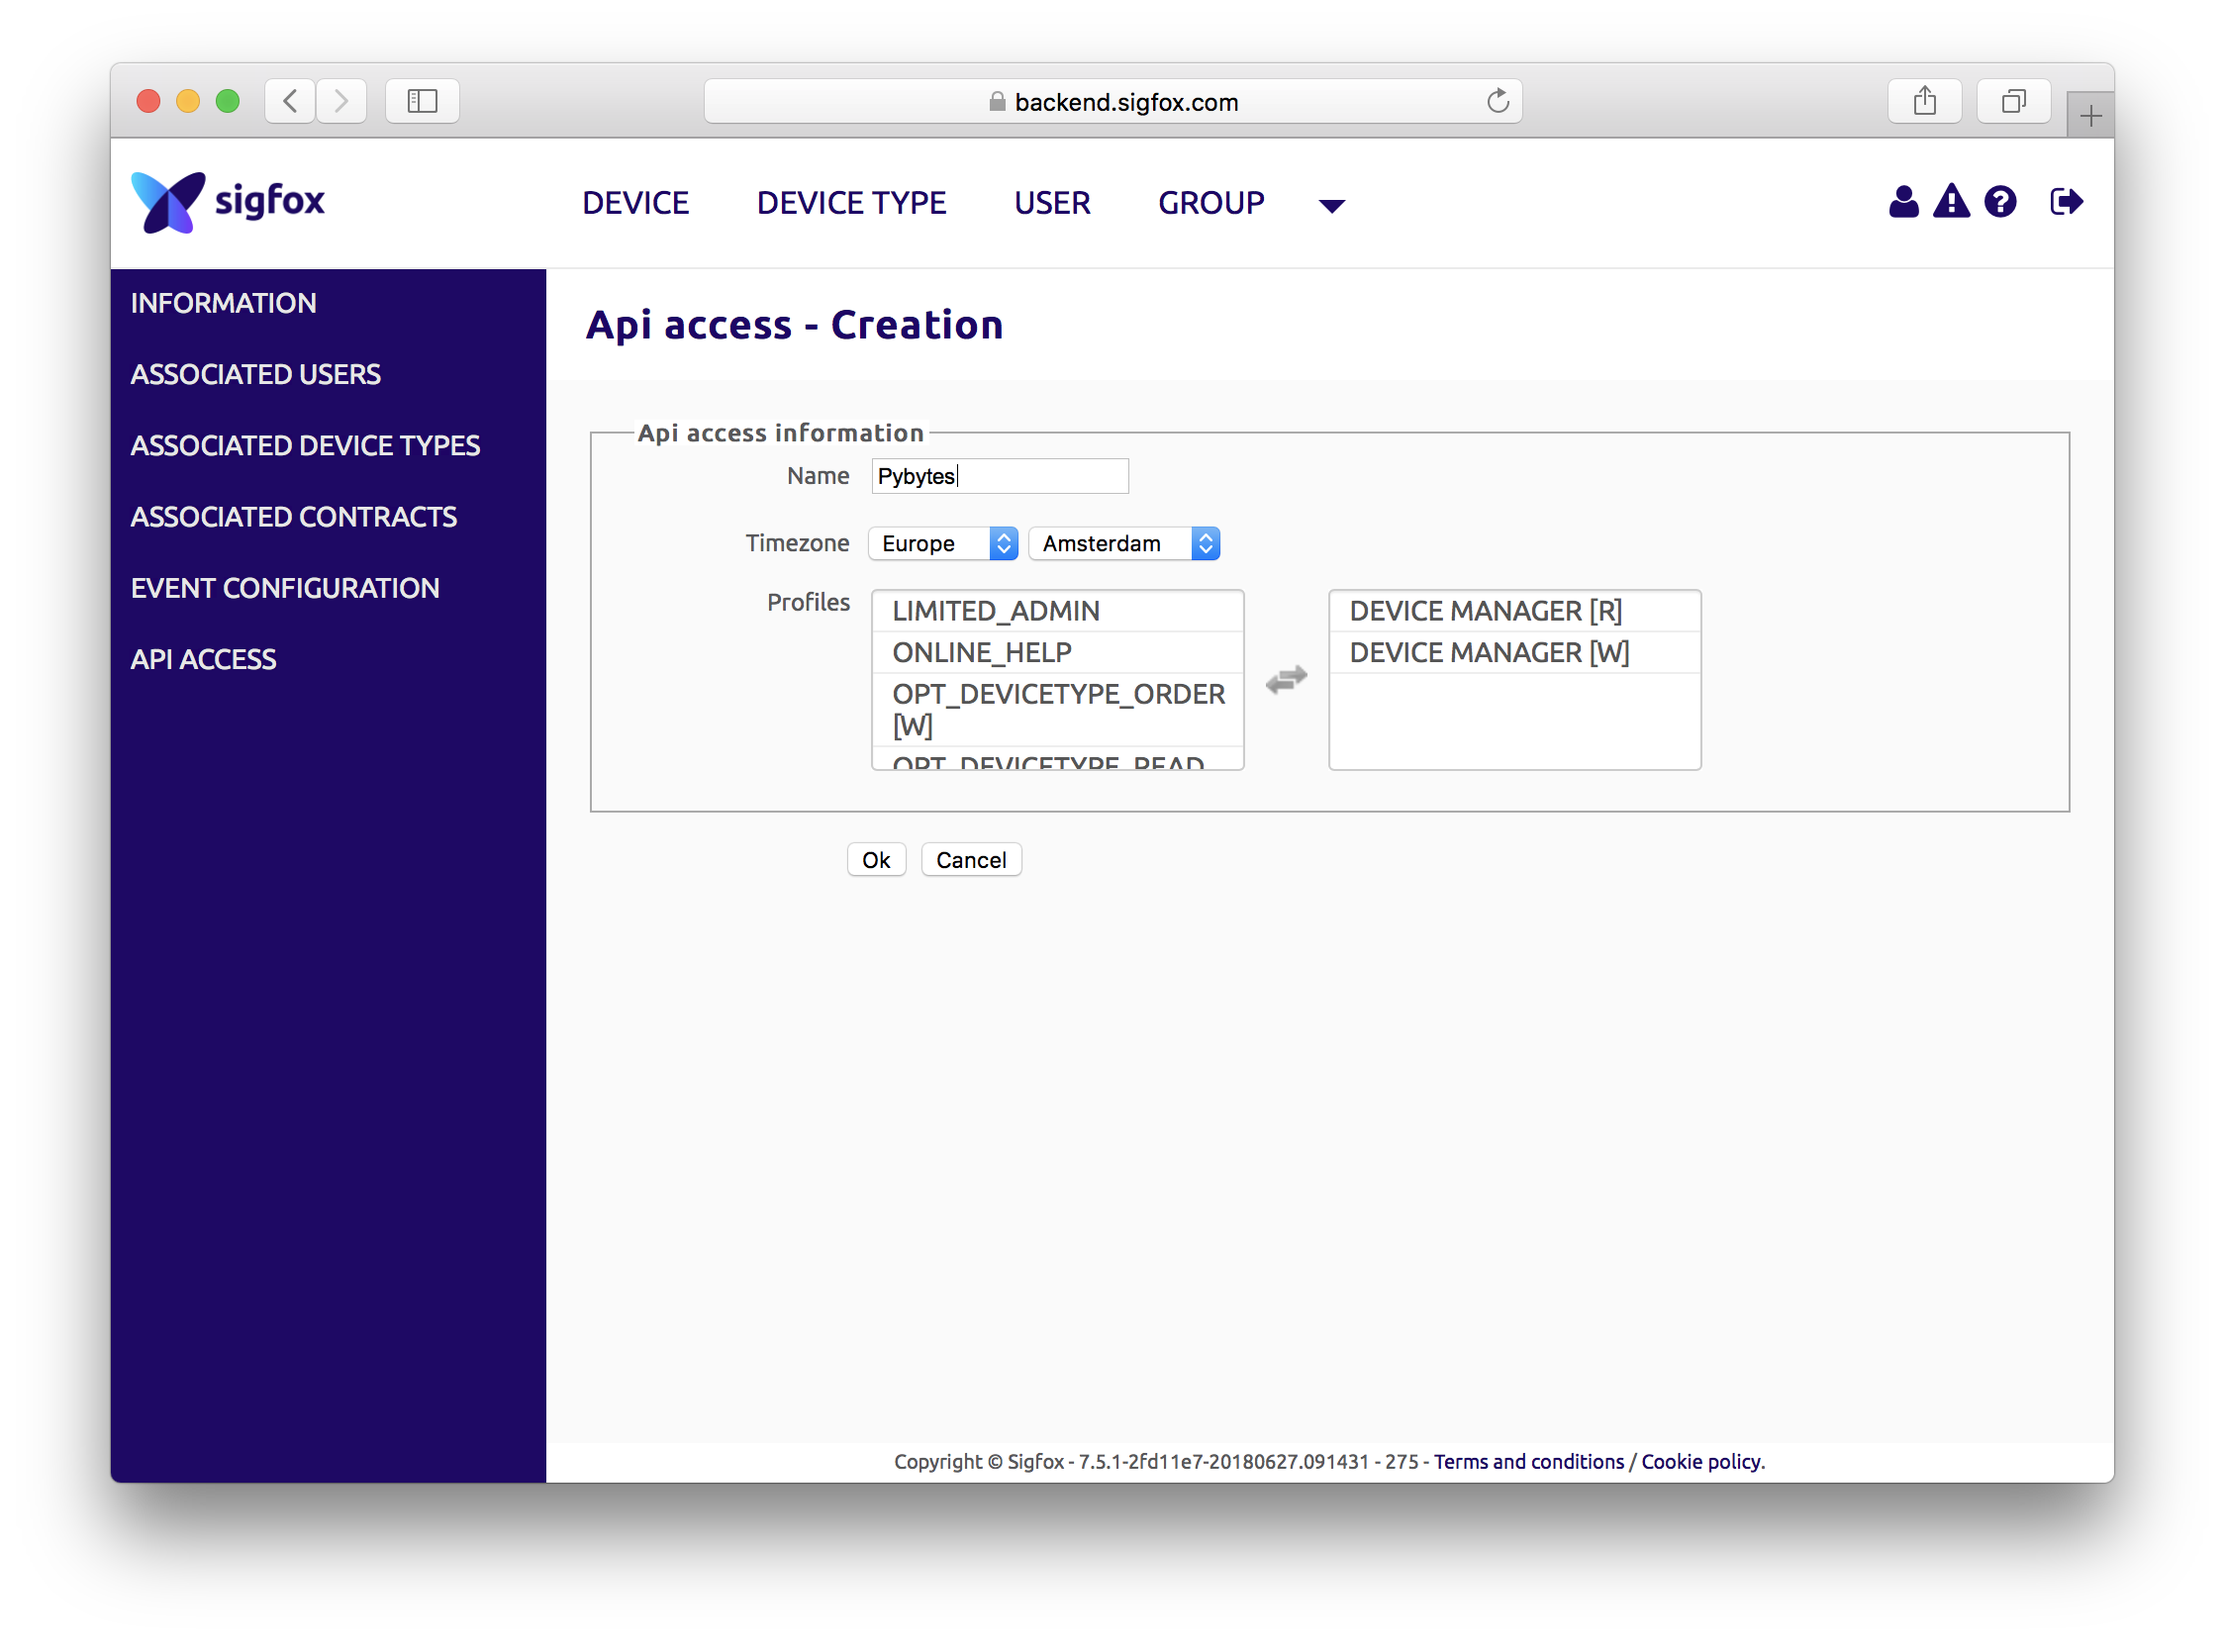
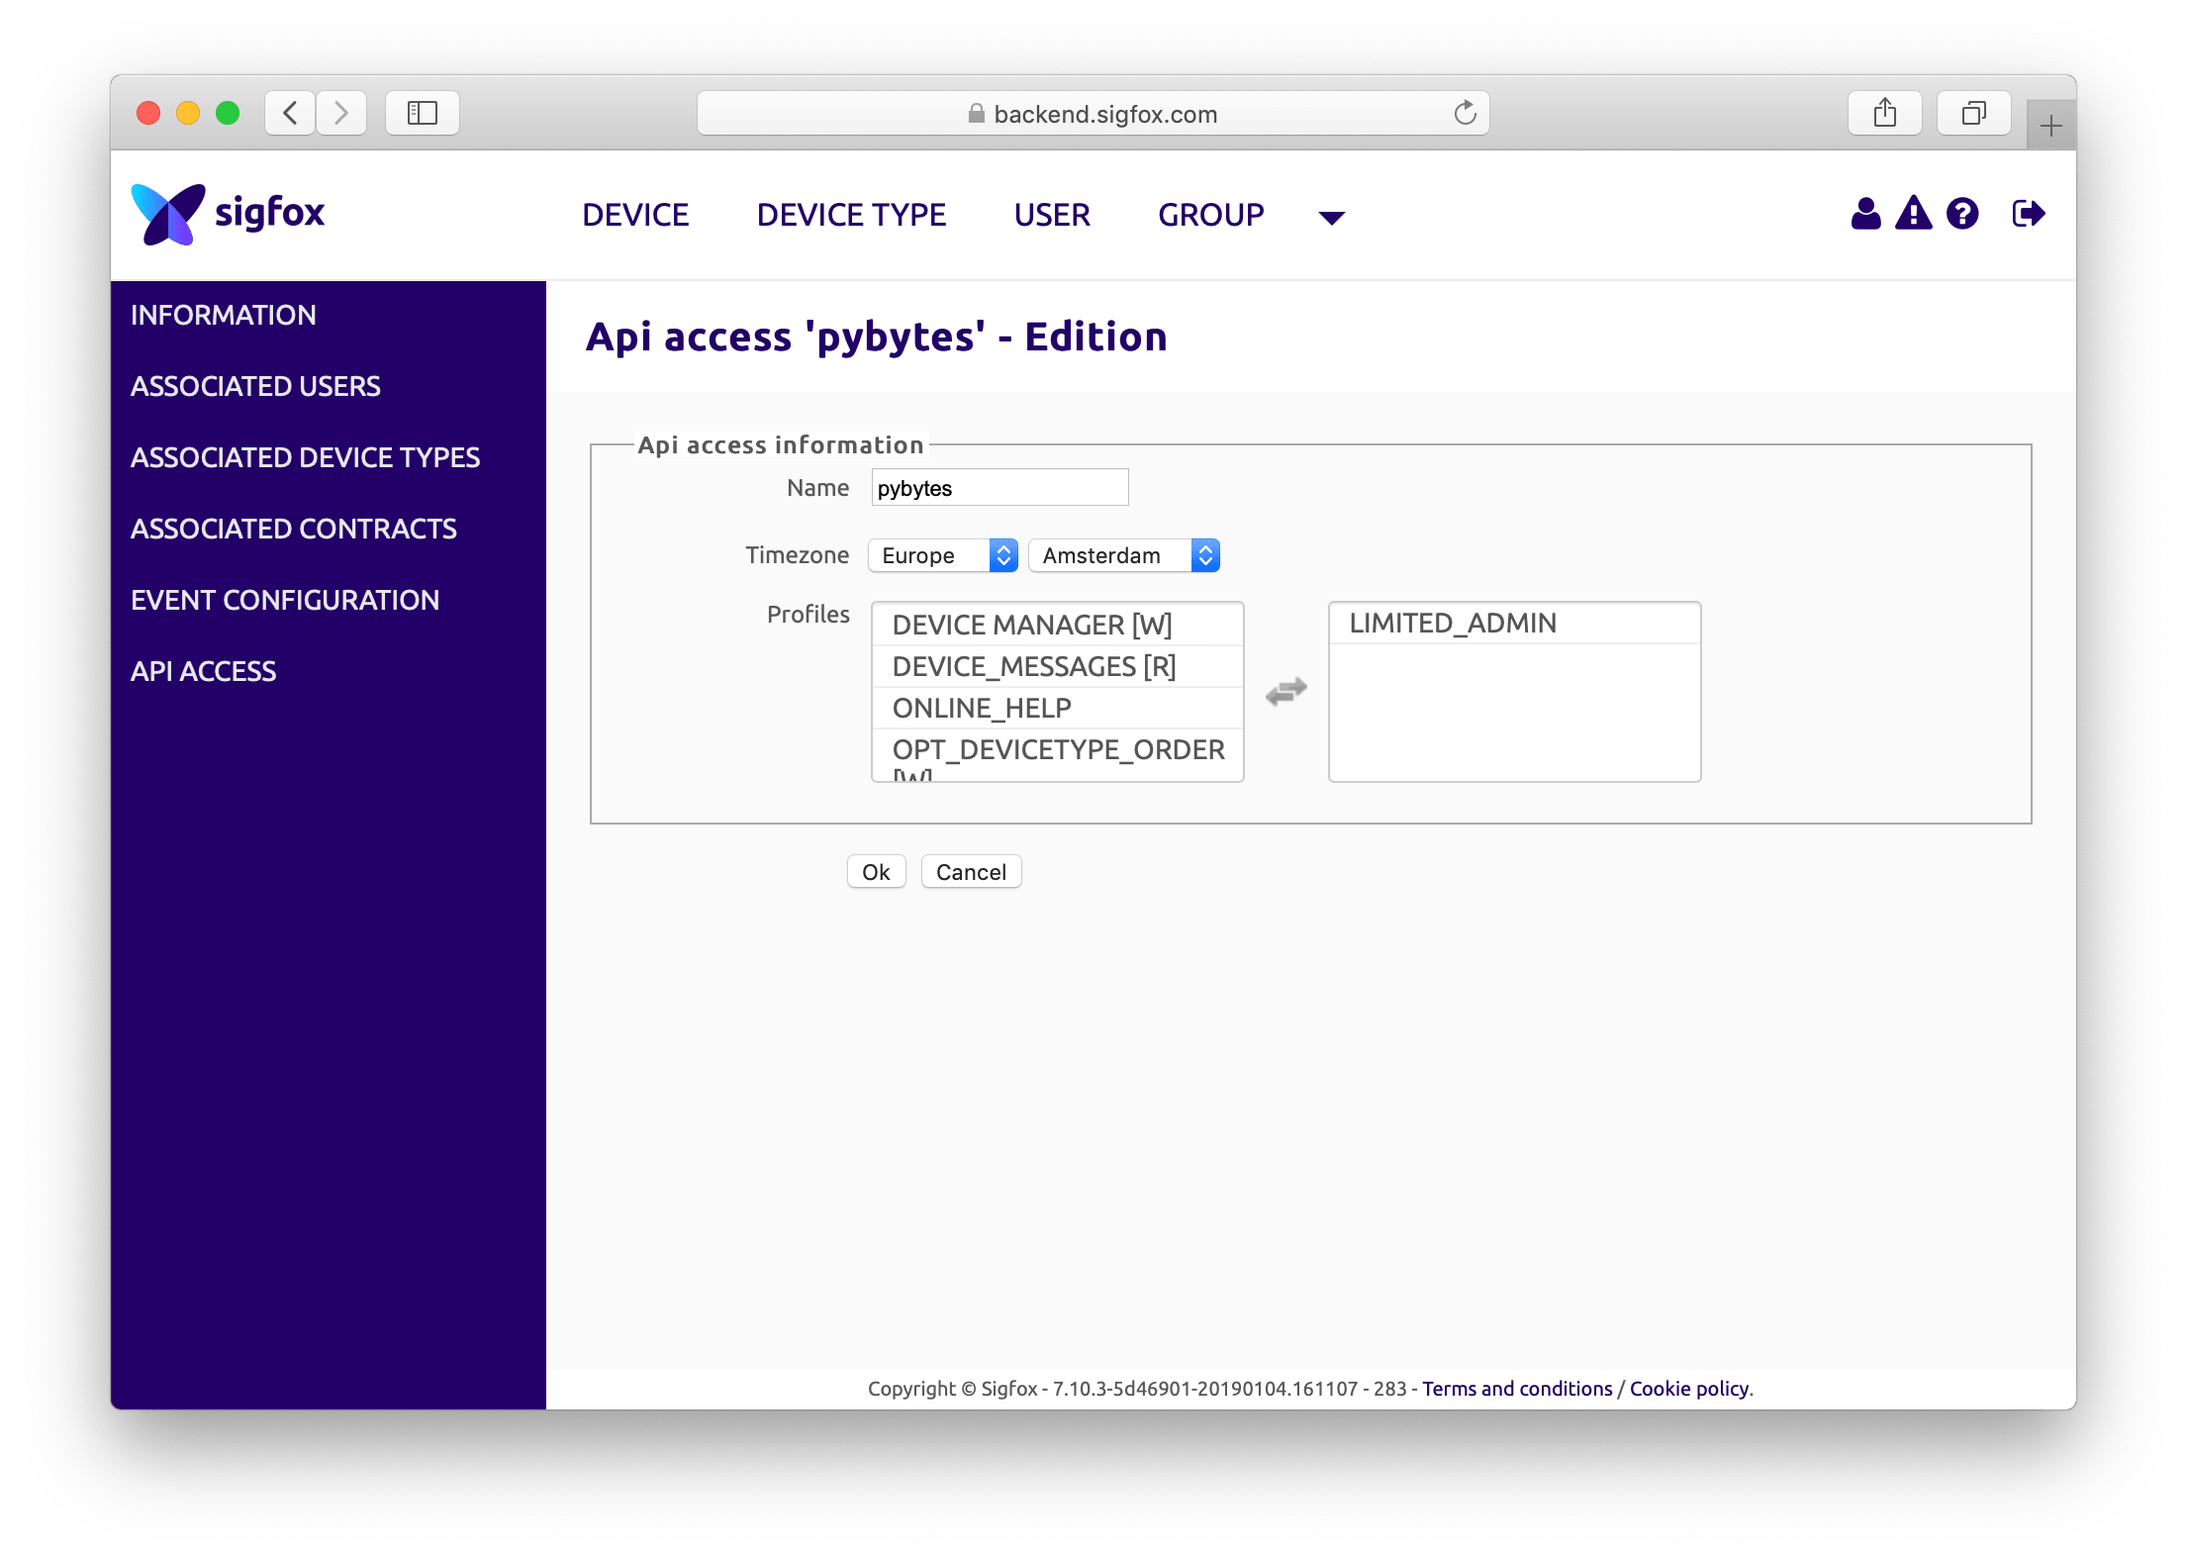
Sigfox: changed roles on sigfox backend

diff --git a/pybytes/connect/sigfox/README.md b/pybytes/connect/sigfox/README.md
@@ -12,7 +12,7 @@ Click on GROUP → &lt;your\_company\_name&gt; → API ACCESS → New
 
 ![](../../../.gitbook/assets/apiaccess%20%281%29.png)
 
-In the form chose arbitrary _name_, select Profiles `DEVICE MANAGER [R]` and `DEVICE MANAGER [W]`. Then click on Ok.
+In the form chose arbitrary _name_, select `LIMITED_ADMIN` and Profile and click on Ok.
 
 ![](../../../.gitbook/assets/apiaccessscope.png)
 
